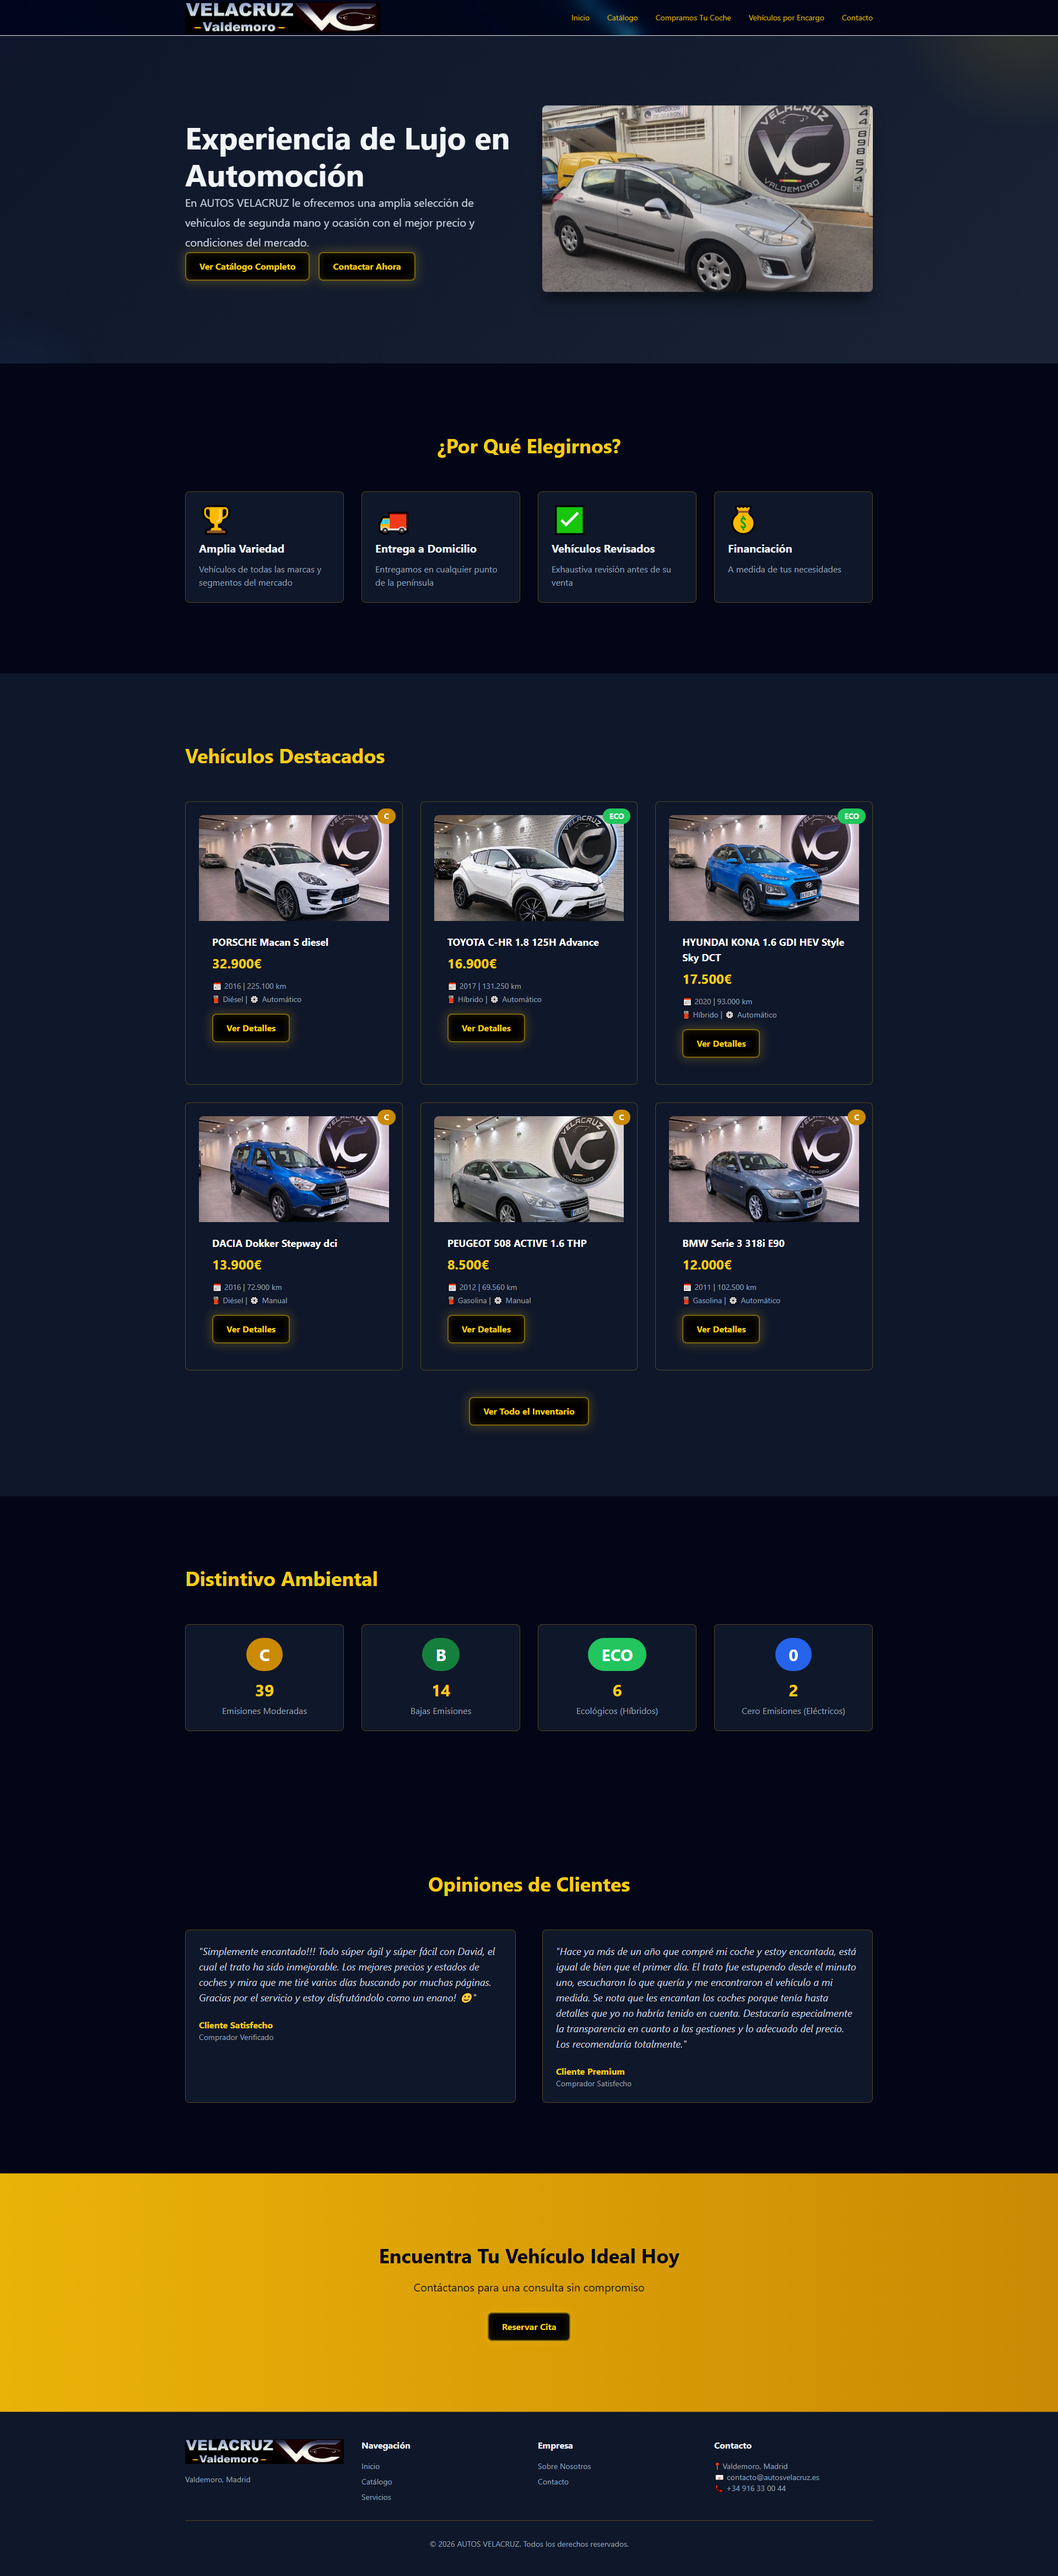
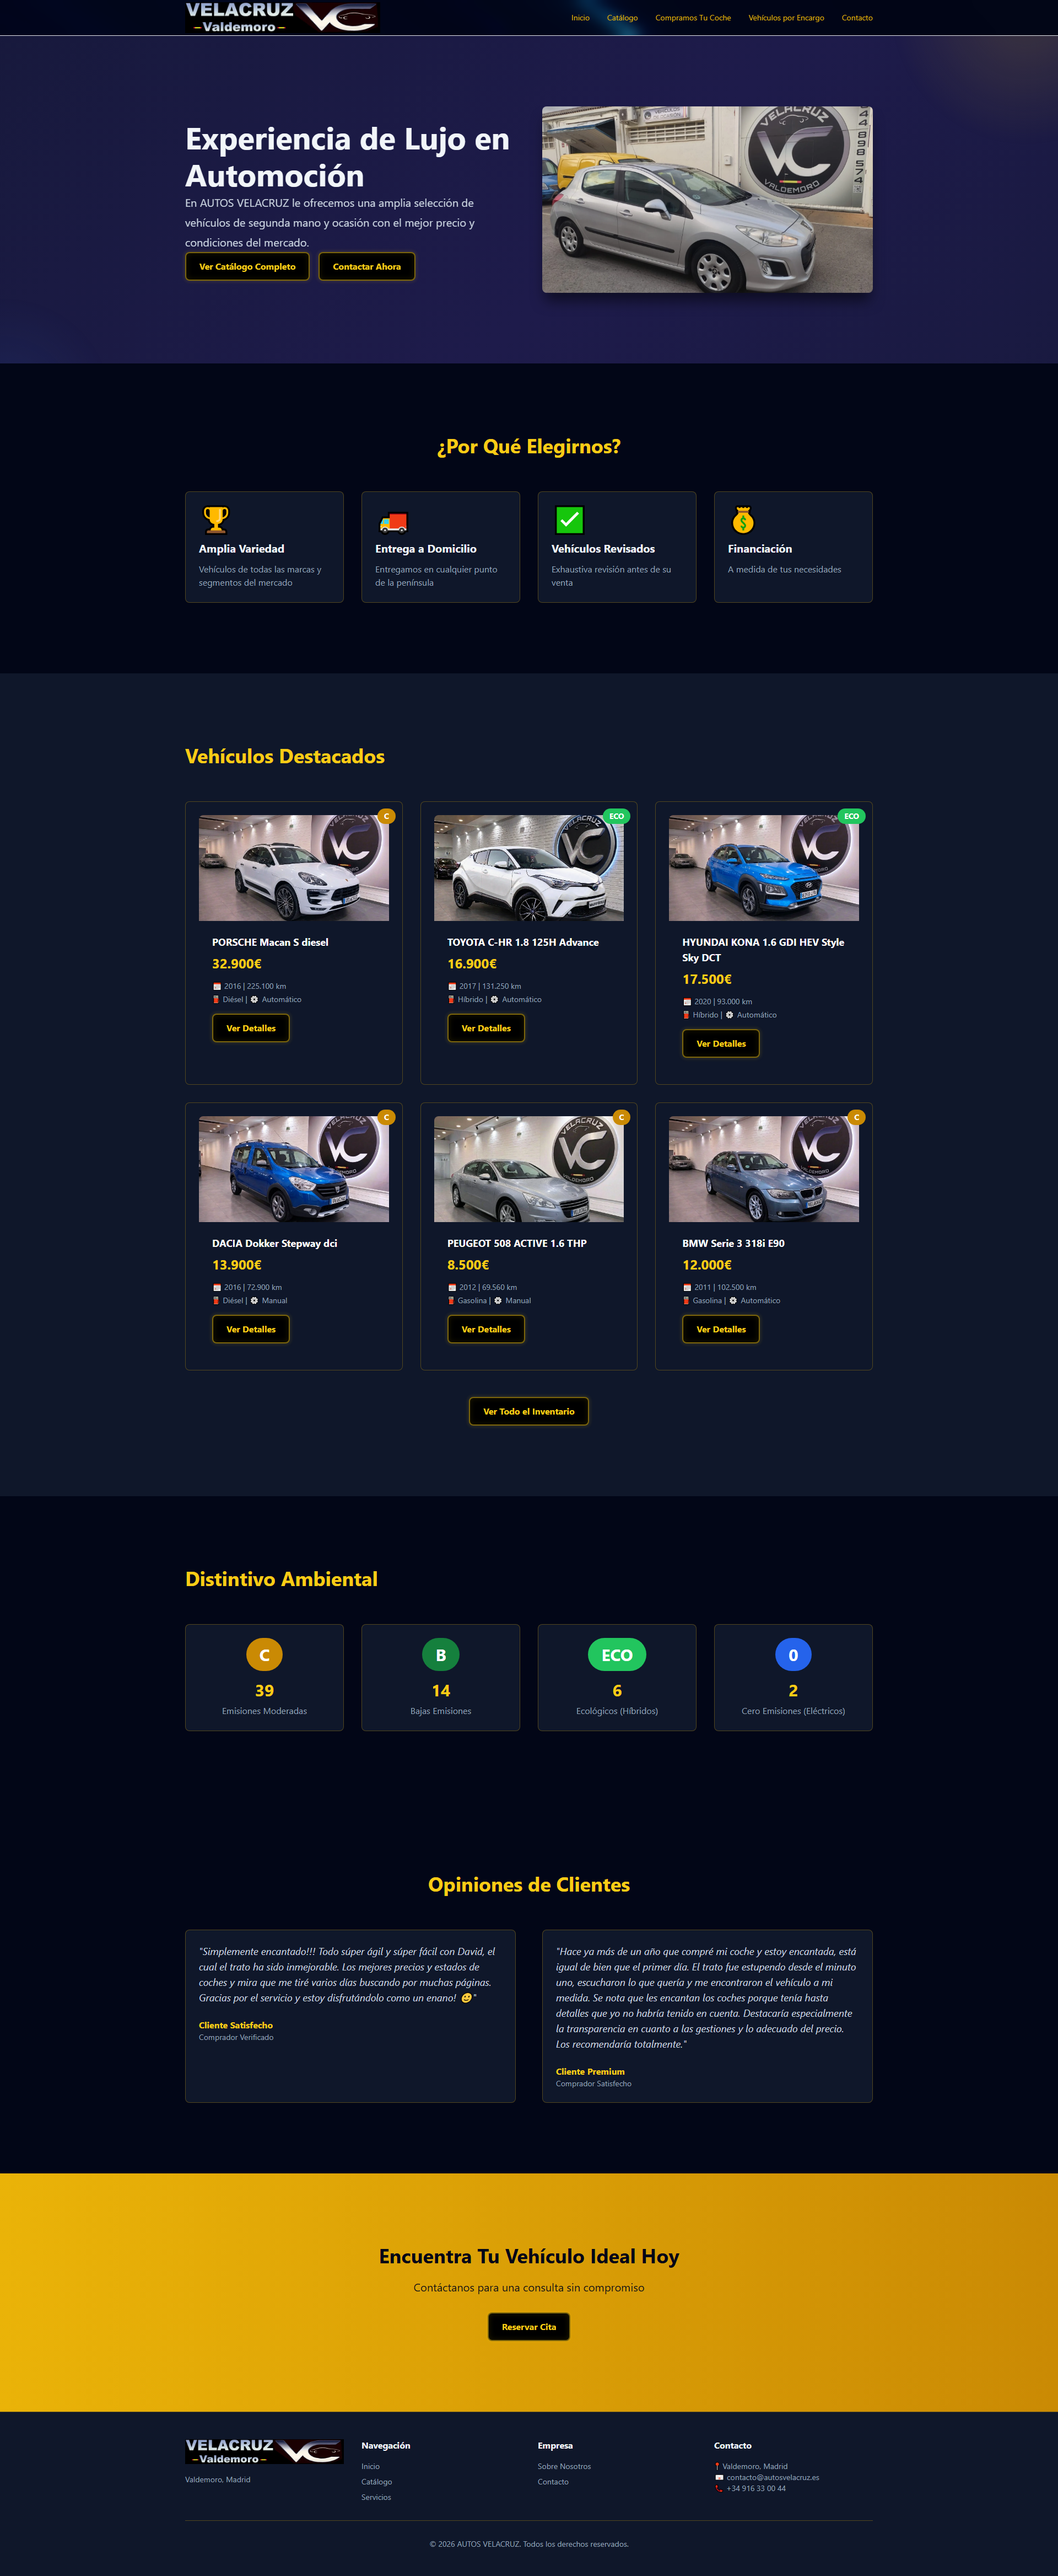
Switch to pure CSS gradient background

Changed region(s): [[0.1562, 0.0, 0.8438, 0.1552]]

diff --git a/detailed-check.js b/detailed-check.js
@@ -1,0 +1,58 @@
+import { chromium } from '@playwright/test';
+
+async function check() {
+  const browser = await chromium.launch();
+  const page = await browser.newPage({ viewport: { width: 1920, height: 1080 } });
+
+  try {
+    await page.goto('https://concesionario-luxury.vercel.app', { waitUntil: 'networkidle' });
+    await page.waitForTimeout(3000);
+
+    const info = await page.evaluate(() => {
+      const canvas = document.querySelector('canvas');
+      const body = document.body;
+
+      return {
+        canvasExists: !!canvas,
+        canvasId: canvas?.id || 'no id',
+        canvasParent: canvas?.parentElement?.tagName,
+        canvasParentId: canvas?.parentElement?.id || 'no id',
+        canvasRect: canvas ? {
+          width: canvas.width,
+          height: canvas.height,
+          clientWidth: canvas.clientWidth,
+          clientHeight: canvas.clientHeight
+        } : null,
+        firstDivChild: body.firstElementChild?.tagName,
+        firstDivId: body.firstElementChild?.id || 'no id',
+        bodyChildren: Array.from(body.children).map(el => ({
+          tag: el.tagName,
+          id: el.id || 'no id'
+        }))
+      };
+    });
+
+    console.log('🔍 Detailed DOM Check:');
+    console.log(`Canvas exists: ${info.canvasExists}`);
+    console.log(`Canvas ID: ${info.canvasId}`);
+    console.log(`Canvas parent: <${info.canvasParent}> id="${info.canvasParentId}"`);
+
+    if (info.canvasRect) {
+      console.log(`\nCanvas dimensions:  `);
+      console.log(`  Actual: ${info.canvasRect.width}x${info.canvasRect.height}px`);
+      console.log(`  Display: ${info.canvasRect.clientWidth}x${info.canvasRect.clientHeight}px`);
+    }
+
+    console.log(`\nBody children:`);
+    info.bodyChildren.forEach((child, i) => {
+      console.log(`  ${i}: <${child.tag}> id="${child.id}"`);
+    });
+
+  } catch (error) {
+    console.error('Error:', error.message);
+  } finally {
+    await browser.close();
+  }
+}
+
+check();
